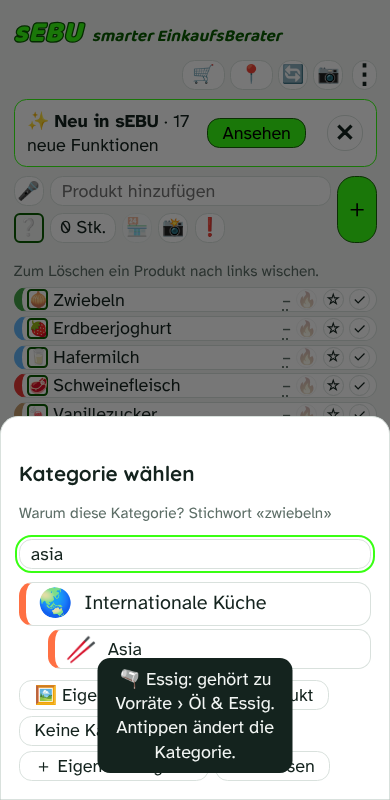
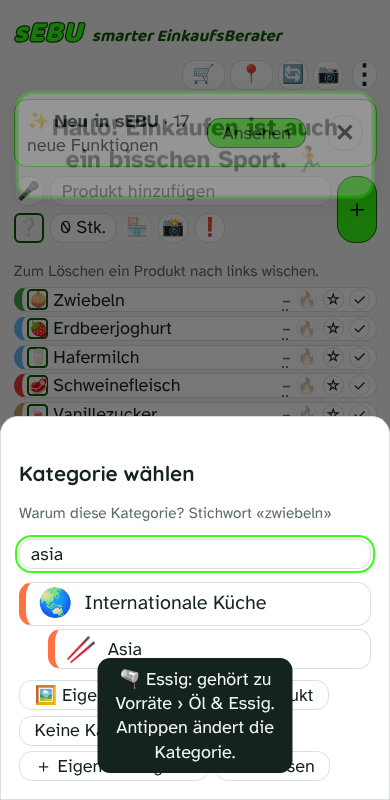
Begrüssung 4 Sekunden
Claude-Session: https://claude.ai/code/session_01D8YzSZq49mBYGwQ71jG7sa

Changed region(s): [[0.0308, 0.0938, 0.9846, 0.25]]

diff --git a/index.html b/index.html
@@ -713,7 +713,7 @@ var NEWS=[
  ['n13','📍','Neuer Laden hier: Über 📍 «Laden wählen» einen neuen Laden samt Standort speichern. Und klare Hilfe, falls Safari den Standort sperrt.',[['list','[data-a=storepick]','📍 antippen, dann «Neuer Laden hier».']]],
  ['n14','🧾','Mehrere Einkaufslisten: zum Beispiel «Aligro» neben «Allgemein». Mit Laden öffnet sie sich dort von selbst.',[['settings','#listnew','Hier legst du eine neue Liste an und wählst auf Wunsch den Laden.',{'sub':'lists'}]]],
  ['n15','⚡','Schnellstart-Knopf: einen Bereich aus dem Menü nach vorne holen, vor den Einkaufswagen.',[['settings','row:Schnellstart-Knopf','Hier wählst du den Bereich für den Knopf.',{'sub':'liste'}]]],
- ['n16','👋','Begrüssung: Beim Öffnen 3 Sekunden ein Spruch zur Tageszeit – einen Monat lang jeden Tag ein anderer. Abschaltbar.',[['settings','row:Begrüssung','Hier wählst du Witzig, Kurz oder Aus.',{'sub':'look'}]]],
+ ['n16','👋','Begrüssung: Beim Öffnen 4 Sekunden ein Spruch zur Tageszeit – einen Monat lang jeden Tag ein anderer. Abschaltbar.',[['settings','row:Begrüssung','Hier wählst du Witzig, Kurz oder Aus.',{'sub':'look'}]]],
  ['n17','🔎','Geschäft suchen: Bei «Wo kaufst du das?» (🏪) findest du mit dem Suchfeld schnell das richtige Geschäft.',[['list','[data-a=shopsel][data-id=draft]','🏪 antippen – oben im Fenster ist das Suchfeld.']]]];
 function newsBanner(){var n=S.ob.done&&S.set.news!==false?newsNew().length:0;if(!n)return'';return'<div class="ban" style="flex-wrap:nowrap;align-items:center"><span style="flex:1">✨ <b>'+t('Neu in sEBU')+'</b> · '+t(n===1?'1 neue Funktion':'{0} neue Funktionen',n)+'</span><button class="btn pri" data-a="newsopen">'+t('Ansehen')+'</button><button class="btn sq dealxb" data-a="newsok" aria-label="'+t('Ausblenden')+'">✕</button></div>'}
 function newsNew(){var i=-1;for(var k=0;k<NEWS.length;k++)if(NEWS[k][0]===S.set.newsSeen)i=k;return NEWS.slice(i+1)}
@@ -758,7 +758,7 @@ function listsBlock(){var h='<p class="small mute">'+t('Statt jedes Produkt eine
 var GREET={m:['Guten Morgen{n}! Kaffee schon auf der Liste? ☕','Guten Morgen{n}! Die Gipfeli warten nicht ewig. 🥐','Morgen{n}! Heute wird ein guter Einkaufstag. 🌅','Guten Morgen{n}! Erst Kaffee, dann Liste. Oder umgekehrt? ☕','Hopp{n}, der frühe Vogel kriegt die Aktion! 🐦','Guten Morgen{n}! Der Kühlschrank hat angerufen. 📞','Morgen{n}! Butter, Brot und gute Laune? 🧈','Guten Morgen{n}! Heute schon an die Milch gedacht? 🥛','Guten Morgen{n}! Die Liste ist wach – du auch? 😄','Morgen{n}! Zopf am Sonntag, Müesli am Montag. 🥣','Guten Morgen{n}! Wer früh einkauft, hat den Laden für sich. 🛒','Morgen{n}! Die Eier sind schon aufgestanden. 🥚','Guten Morgen{n}! Noch kurz gähnen, dann geht’s los. 🥱','Guten Morgen{n}! Frisch wie ein Gipfeli? 🥐','Morgen{n}! Die Sonne scheint, die Liste auch. ☀','Guten Morgen{n}! Ein Konfibrot und los. 🍓','Guten Morgen{n}! Dein Einkaufswagen freut sich schon. 🛒','Morgen{n}! Heute wird nichts vergessen. Versprochen. ✅','Guten Morgen{n}! Orangensaft: mit oder ohne Fruchtfleisch? 🍊','Morgen{n}! Die Bananen sind reif für dich. 🍌','Guten Morgen{n}! Erst Zmorge, dann posten. 🍳','Morgen{n}! Der Toaster hat Hunger. 🍞','Guten Morgen{n}! Heute ist ein guter Tag für frisches Brot. 🥖','Morgen{n}! Kaffee leer? Das wäre ein Notfall! ❗','Guten Morgen{n}! Die Liste hat gut geschlafen. 😴','Morgen{n}! Joghurt mit Früchten oder Früchte mit Joghurt? 🍦','Guten Morgen{n}! Bereit für die Jagd nach Aktionen? 🔥','Morgen{n}! Auch Helden brauchen Zmorge. 🦸','Guten Morgen{n}! Ein Tag ohne Gipfeli ist möglich, aber sinnlos. 🥐','Morgen{n}! Tee oder Kaffee – Hauptsache warm. 🍵','Guten Morgen{n}! Alles kann, nichts muss – auch kein Frühsport. 😄'],t:['Mahlzeit{n}! Der Magen knurrt, die Liste auch. 🍽','Hallo{n}! Zeit für einen kleinen Einkauf? 🛒','En Guete{n}! Und danach ab in den Laden? 😋','Hoi{n}! Was fehlt heute im Kühlschrank? 🧊','Hallo{n}! Mittagspause = Einkaufspause? ⏱','Grüezi{n}! Die Aktionen warten schon. 🔥','Hallo{n}! Pasta geht immer. 🍝','Hoi{n}! Ein Apfel am Tag … steht er auf der Liste? 🍎','Hallo{n}! Schnell rein, schnell raus – mit sEBU. ⚡','Grüezi{n}! Heute schon was Feines gegessen? 🥗','Hallo{n}! Nachmittagstief? Schoggi hilft. 🍫','Hoi{n}! Zvieri nicht vergessen! 🍪','Hallo{n}! Die Kasse ist gerade leer – perfekt! 🧾','Grüezi{n}! Brot ist alle? Kein Problem. 🍞','Hallo{n}! Der Einkaufswagen ist frisch geölt. 🛒','Hoi{n}! Eine Liste, viele Möglichkeiten. 🧾','Hallo{n}! Heute schon an Wasser gedacht? 💧','Grüezi{n}! Kein Stress – die Liste merkt sich alles. 😌','Hallo{n}! Wer schreibt, der bleibt – und vergisst nichts. ✍','Hoi{n}! Heute ist ein guter Tag für Aktionen. 🏷','Hallo{n}! Die Tomaten sind rot vor Freude. 🍅','Grüezi{n}! Kurz posten und dann Feierabend? 😉','Hallo{n}! Salat oder Pizza? Warum nicht beides. 🍕','Hoi{n}! Die Rüebli sind knackig wie nie. 🥕','Hallo{n}! Einkaufen ist auch ein bisschen Sport. 🏃','Grüezi{n}! Hast du heute schon gelacht? 😄','Hallo{n}! Die Liste ist bereit – du auch? 💪','Hoi{n}! Ein Käse am Tag hält den Hunger fern. 🧀','Hallo{n}! Die Glace ruft – aber leise. 🍨','Grüezi{n}! Mit Liste geht’s doppelt so schnell. ⏩','Hallo{n}! Heute nur das Nötigste? Oder ein bisschen mehr? 😏'],a:['Guten Abend{n}! Noch schnell was holen vor Ladenschluss? 🌆','Guten Abend{n}! Was gibt’s heute zum Znacht? 🍲','Abend{n}! Feierabend – und der Kühlschrank? 🧊','Guten Abend{n}! Raclette oder Fondue? 🧀','Guten Abend{n}! Der Tag war lang, die Liste ist kurz. 😌','Abend{n}! Heute kochst du – oder bestellst du? 😄','Guten Abend{n}! Zeit für etwas Feines. 🍷','Abend{n}! Noch Brot für morgen da? 🍞','Guten Abend{n}! Die Pasta kocht sich nicht von selbst. 🍝','Abend{n}! Heute Abend gibt’s … steht’s schon auf der Liste? 🧾','Guten Abend{n}! Gute Nachricht: Der Laden hat noch offen. 🏪','Abend{n}! Ein Glas Wein auf die erledigte Liste? 🥂','Guten Abend{n}! Morgen-Rico wird dir danken. 🙏','Abend{n}! Chips für den Filmabend? 🍿','Guten Abend{n}! Schon Plan fürs Wochenende? 📅','Abend{n}! Wer abends plant, hat morgens Ruhe. 🛌','Guten Abend{n}! Heute schon was abgehakt? ✅','Abend{n}! Der Ofen ist bereit für Grosses. 🔥','Guten Abend{n}! Kleine Liste, grosser Erfolg. 🏆','Abend{n}! Ein Dessert wäre jetzt nicht schlecht. 🍰','Guten Abend{n}! Die Kartoffeln langweilen sich im Keller. 🥔','Abend{n}! Heute Pizza-Abend? 🍕','Guten Abend{n}! Und morgen Zmorge? Liste checken! 🥐','Abend{n}! Wer kocht, darf auch naschen. 😋','Guten Abend{n}! Das Wochenende kommt – die Vorräte auch? 🥫','Abend{n}! Ein Tee und die Liste für morgen. 🍵','Guten Abend{n}! Frisch gekocht schmeckt’s am besten. 👨🍳','Abend{n}! Heute keine Lust zu kochen? Fertiggerichte gibt’s auch. 😉','Guten Abend{n}! Die Zwiebeln weinen schon vor Freude. 🧅','Abend{n}! Morgen ist auch noch ein Einkaufstag. 🌙','Guten Abend{n}! Alles kann, nichts muss – auch kein Abwasch. 😄'],n:['Noch wach{n}? Der Kühlschrank auch. 🌙','Gute Nacht{n}! Die Liste passt auf alles auf. 😴','Spät dran{n}? Der Laden schläft schon. 🏪💤','Hallo Nachteule{n}! 🦉','Mitternachtssnack{n}? Steht’s auf der Liste? 🍫','Noch wach{n}? Morgen-Rico freut sich über die Liste. 📝','Psst{n}! Die Bananen schlafen schon. 🍌','Gute Nacht{n}! Träum was Süsses – zum Beispiel Schoggi. 🍫','Noch wach{n}? Schäfchen zählen oder Eier zählen? 🐑','Nachtschicht{n}? sEBU ist auch noch wach. 💪','Hallo{n}! Um diese Zeit plant man die besten Einkäufe. 🌌','Gute Nacht{n}! Morgen früh gibt’s frische Gipfeli. 🥐','Noch wach{n}? Der Mond scheint, die Liste auch. 🌕','Hey{n}! Nachts sind alle Rüebli orange. 🥕','Schlaflos{n}? Warme Milch hilft. 🥛','Gute Nacht{n}! Die Liste hält Wache. 💂','Noch wach{n}? Kurz aufschreiben, dann schlafen. ✍','Hallo{n}! Der Kühlschrank brummt dir ein Gute-Nacht-Lied. 🎶','Spät{n}! Aber für eine Liste ist es nie zu spät. 🧾','Psst{n}! Nicht den Käse wecken. 🧀','Noch wach{n}? Die Sterne zählen nicht als Einkauf. ✨','Gute Nacht{n}! Morgen wird ein frischer Tag. 🌅','Hallo{n}! Mitternacht ist Snack-Zeit – ganz offiziell. 🕛','Noch wach{n}? Dann schnell die Liste für morgen. 📋','Gute Nacht{n}! Die Aktionen von morgen sind schon unterwegs. 🔥','Hey{n}! Nachts ist die Liste besonders geduldig. 😌','Noch wach{n}? Ein Kräutertee wäre jetzt fein. 🍵','Gute Nacht{n}! Und nicht vergessen: Kaffee für morgen. ☕','Hallo Nachtschwärmer{n}! 🌃','Noch wach{n}? sEBU verrät es niemandem. 🤫','Gute Nacht{n}! Alles kann, nichts muss – auch nicht schlafen. 😄']},GSHORT={m:'Guten Morgen{n}!',t:'Hallo{n}!',a:'Guten Abend{n}!',n:'Gute Nacht{n}!'},greetOn=false,greetT=null;
 function greetSlot(d){var h=d.getHours();return h>=5&&h<11?'m':h<17&&h>=11?'t':h>=17&&h<22?'a':'n'}
 function greetText(d){d=d||new Date();var g=S.set.greet||'fun',sl=greetSlot(d),n=S.ob.name?', '+S.ob.name:'',x=g==='short'?GSHORT[sl]:GREET[sl][d.getDate()-1];return x.replace('{n}',n)}
-function greetShow(){if(S.set.greet==='off'||!S.ob.done||view!=='list'||tour)return;greetOn=true;clearTimeout(greetT);greetT=setTimeout(function(){greetOn=false;var g=$('#greet');if(g){g.classList.add('out');setTimeout(function(){R()},400)}else R()},3000);R()}
+function greetShow(){if(S.set.greet==='off'||!S.ob.done||view!=='list'||tour)return;greetOn=true;clearTimeout(greetT);greetT=setTimeout(function(){greetOn=false;var g=$('#greet');if(g){g.classList.add('out');setTimeout(function(){R()},400)}else R()},4000);R()}
 function greetHtml(){return greetOn?'<div id="greet" class="greet" data-a="greetx">'+esc(t(greetText()))+'</div>':''}
 function selH(k,opts){return'<select class="field" data-chg="'+k+'" style="height:calc(var(--rh)*.8)">'+opts.map(function(o){return'<option value="'+o[0]+'"'+(String(S.set[k])===String(o[0])?' selected':'')+'>'+esc(o[1])+'</option>'}).join('')+'</select>'}
 function inTab(i){return ltab==='more'?!!i.type:!i.type}
@@ -1189,7 +1189,7 @@ SA('Einkaufslisten',[
  ss('lists','row:Liste automatisch öffnen','Liste automatisch öffnen: Bist du im Laden einer Liste, wechselt sEBU zu dieser Liste.','<b>Wenn du lieber selbst wählst:</b> ausschalten. Die Listen bleiben oben wählbar.')]);
 SA('Darstellung',[
  ss('look','.fsctl','Textgrösse: Tippe auf − oder +. Die Zahl zeigt die Grösse, die Anzeige ändert sich sofort.','<b>Wofür geeignet:</b> 16 bis 18 px für viel auf einen Blick, 22 px und mehr für gute Lesbarkeit.\n<b>Wenn Knöpfe zu eng werden:</b> Schrift etwas kleiner machen oder «Zeilenhöhe: Normal» wählen.'),
- ss('look','row:Begrüssung','Begrüssung beim Öffnen: 3 Sekunden gross, passend zur Tageszeit.','<b>Witzig (Standard):</b> jeden Tag ein anderer Spruch – einen Monat lang keine Wiederholung.\n<b>Kurz:</b> nur «Guten Morgen, Rico».\n<b>Aus:</b> keine Begrüssung, oben bleibt mehr Platz.\n<b>Wenn sie stört:</b> antippen, dann verschwindet sie sofort – oder hier ausschalten.'),
+ ss('look','row:Begrüssung','Begrüssung beim Öffnen: 4 Sekunden gross, passend zur Tageszeit.','<b>Witzig (Standard):</b> jeden Tag ein anderer Spruch – einen Monat lang keine Wiederholung.\n<b>Kurz:</b> nur «Guten Morgen, Rico».\n<b>Aus:</b> keine Begrüssung, oben bleibt mehr Platz.\n<b>Wenn sie stört:</b> antippen, dann verschwindet sie sofort – oder hier ausschalten.'),
  ss('look','row:Design','Hell, Dunkel oder Automatisch nach deinem Gerät.'),
  ss('look','row:Menü','Minimal, Normal oder Gross.','Bei «Minimal» sind die Menüknöpfe klein, bei «Gross» besonders gross.'),
  ss('look','row:Akzentfarbe','Die Akzentfarbe: Neon-Grün oder eine eigene Farbe.'),

diff --git a/tests/t28.py b/tests/t28.py
@@ -8,7 +8,7 @@ with sync_playwright() as p:
     pg.add_init_script("(function(){var D=Date,f=new D(2026,10,25,8,15);window.Date=function(a){return arguments.length?new (Function.prototype.bind.apply(D,[null].concat([].slice.call(arguments)))):new D(f.getTime()+(D.now()-window.__t0))};window.__t0=D.now();Date.now=function(){return f.getTime()+(D.now()-window.__t0)};Date.prototype=D.prototype;Date.UTC=D.UTC;Date.parse=D.parse})()")
     pg.goto('file://'+os.getcwd()+'/index.html');pg.evaluate("localStorage.setItem('sebu.v1',JSON.stringify({ob:{done:true,name:'Rico'},set:{newsSeen:'n16'}}))");pg.reload();pg.wait_for_timeout(300)
     g=pg.locator('#greet');print('shown',g.count(),pg.inner_text('#greet') if g.count() else '')
-    pg.wait_for_timeout(3700);print('gone after 3s',pg.locator('#greet').count()==0)
+    pg.wait_for_timeout(4700);print("gone after 4s",pg.locator('#greet').count()==0)
     pg.evaluate("localStorage.setItem('sebu.v1',JSON.stringify(Object.assign(JSON.parse(localStorage.getItem('sebu.v1')),{set:Object.assign(JSON.parse(localStorage.getItem('sebu.v1')).set,{greet:'short'})})))");pg.reload();pg.wait_for_timeout(300)
     print('short',pg.inner_text('#greet'))
     pg.click('#greet');print('tap closes',pg.locator('#greet').count()==0)

diff --git a/CLAUDE.md b/CLAUDE.md
@@ -51,7 +51,7 @@ Besitzer: Rico Schubiger (GitHub `Schubiger-Rico`), Schweiz, Deutsch. Er arbeite
 - Drehräder Menge/Einheit (`shQty`, `wheelInit`): **waagrecht** (Klasse `.hz`, Helfer `wHz/wIdx/wSet`), Händigkeit `S.set.hand` right (Standard, Räder ganz rechts 62 %, Daumen wischt von rechts nach links)/left/both; Grösse `--wo`, Breite `--ww`, gewählte Zahl `.on`, `scroll-snap-stop:always`. Pro Schritt `tick()`: kurzer Web-Audio-Klick (iPhone + Android) und auf Android `navigator.vibrate(8)`; Einstellung `S.set.tick` (Favoriten und Letzte Produkte), «Lautlos» unterdrückt. iPhone-Stummschalter macht den Klick stumm.
 - Mehrere Einkaufslisten: `S.lists` [{id,name,store?}], Standard `L0` «Allgemein», aktuelle `S.curList` (`curL()`), Produkt `item.list` (fehlt = L0, `listOf`). Keine Listen-Leiste mehr (überladen); Wechsel über Schnellstart = «Einkaufslisten» (Knopf `.qkb.ql` zeigt klein die aktive Liste, Antippen → Sheet `listpick`) oder unter Menü → Einkaufslisten «Wählen» (`listset`); Neues kommt in die gewählte Liste; Dringendes ❗ in jeder Liste. Einstellungen-Sparte «Einkaufslisten» (`lists`, `listsBlock`: Name, Laden, ✕ → Produkte nach Allgemein). Mit Laden: `setCur` öffnet die Liste automatisch (`S.set.listAuto`, `listAutoOn`), nach `shopEnd` zurück zu Allgemein. Die Zuordnung pro Produkt zu Läden bleibt zusätzlich bestehen.
 - Schnellstart-Knopf: `S.set.quick` (leer = aus, Standard; sonst Bereich aus `NAV`/`MORE`), Knopf `.qkb` (`quickBtn`, `data-a=quick`) in der Kopfzeile vor 🛒, Auswahl unter Einstellungen → Einkaufsliste.
-- Begrüssung: beim Öffnen und Zurückkehren 3 s gross (`greetShow`, Overlay `#greet`, Antippen schliesst), Tageszeit `greetSlot` (Morgen 5–11, Tag 11–17, Abend 17–22, Nacht), `GREET` je 31 Sprüche, Auswahl nach Tag im Monat → keine Wiederholung im Monat; `S.set.greet` fun (Standard)/short/off unter Darstellung.
+- Begrüssung: beim Öffnen und Zurückkehren 4 s gross (`greetShow`, Overlay `#greet`, Antippen schliesst), Tageszeit `greetSlot` (Morgen 5–11, Tag 11–17, Abend 17–22, Nacht), `GREET` je 31 Sprüche, Auswahl nach Tag im Monat → keine Wiederholung im Monat; `S.set.greet` fun (Standard)/short/off unter Darstellung.
 - Zeilenhöhe: `S.set.rows` compact (Standard) / normal, Klasse `html.compact` in `applyLook()`.
 - Rückgängig: `delItem()` + `undo` (4 s, Leiste unten). Wischen und «Löschen» nutzen es.
 - Sicherung: Zwischenkopien täglich in localStorage `sebu.bak` (letzte 5, `snap()`), optional täglich in eigene Firebase `/lists/bak-<bakCode>.json` als `{t,j}` (unter `lists`, damit die bestehenden Teilen-Regeln reichen) (JSON-String, ohne apiKey; `cloudBak()`); Holen per Code. Hilfsfunktion `fbSet()` (nicht mit `fbOk()` vom Teilen verwechseln).

diff --git a/docs/ENTSCHEIDUNGEN.md b/docs/ENTSCHEIDUNGEN.md
@@ -803,3 +803,4 @@ Stand heute: 1 gebaut; 2 teilweise (Aktionen, aber ohne echte Datenquelle); 3 te
 - Überschrift «Lebensmittel-Läden» umbenennen in «Geschäfte».
 - Suchfeld ganz oben, filtert schon beim Tippen (bestätigt). Menüpunkt «Läden» ebenfalls in «Geschäfte» umbenennen.
 - **Umgesetzt am 25.11.:** «Wo kaufst du das?» mit Suchfeld oben (filtert beim Tippen nach Wortanfang), Überschrift «Geschäfte»; eingetippte Geschäfte wie Aligro erscheinen jetzt auch als Auswahl. Menüpunkt «Läden» heisst «Geschäfte» (nur Menüpunkt und Seitentitel). In Führung und «Neu in sEBU» (n17).
+- 25.11.: Begrüssung neu 4 Sekunden statt 3.
